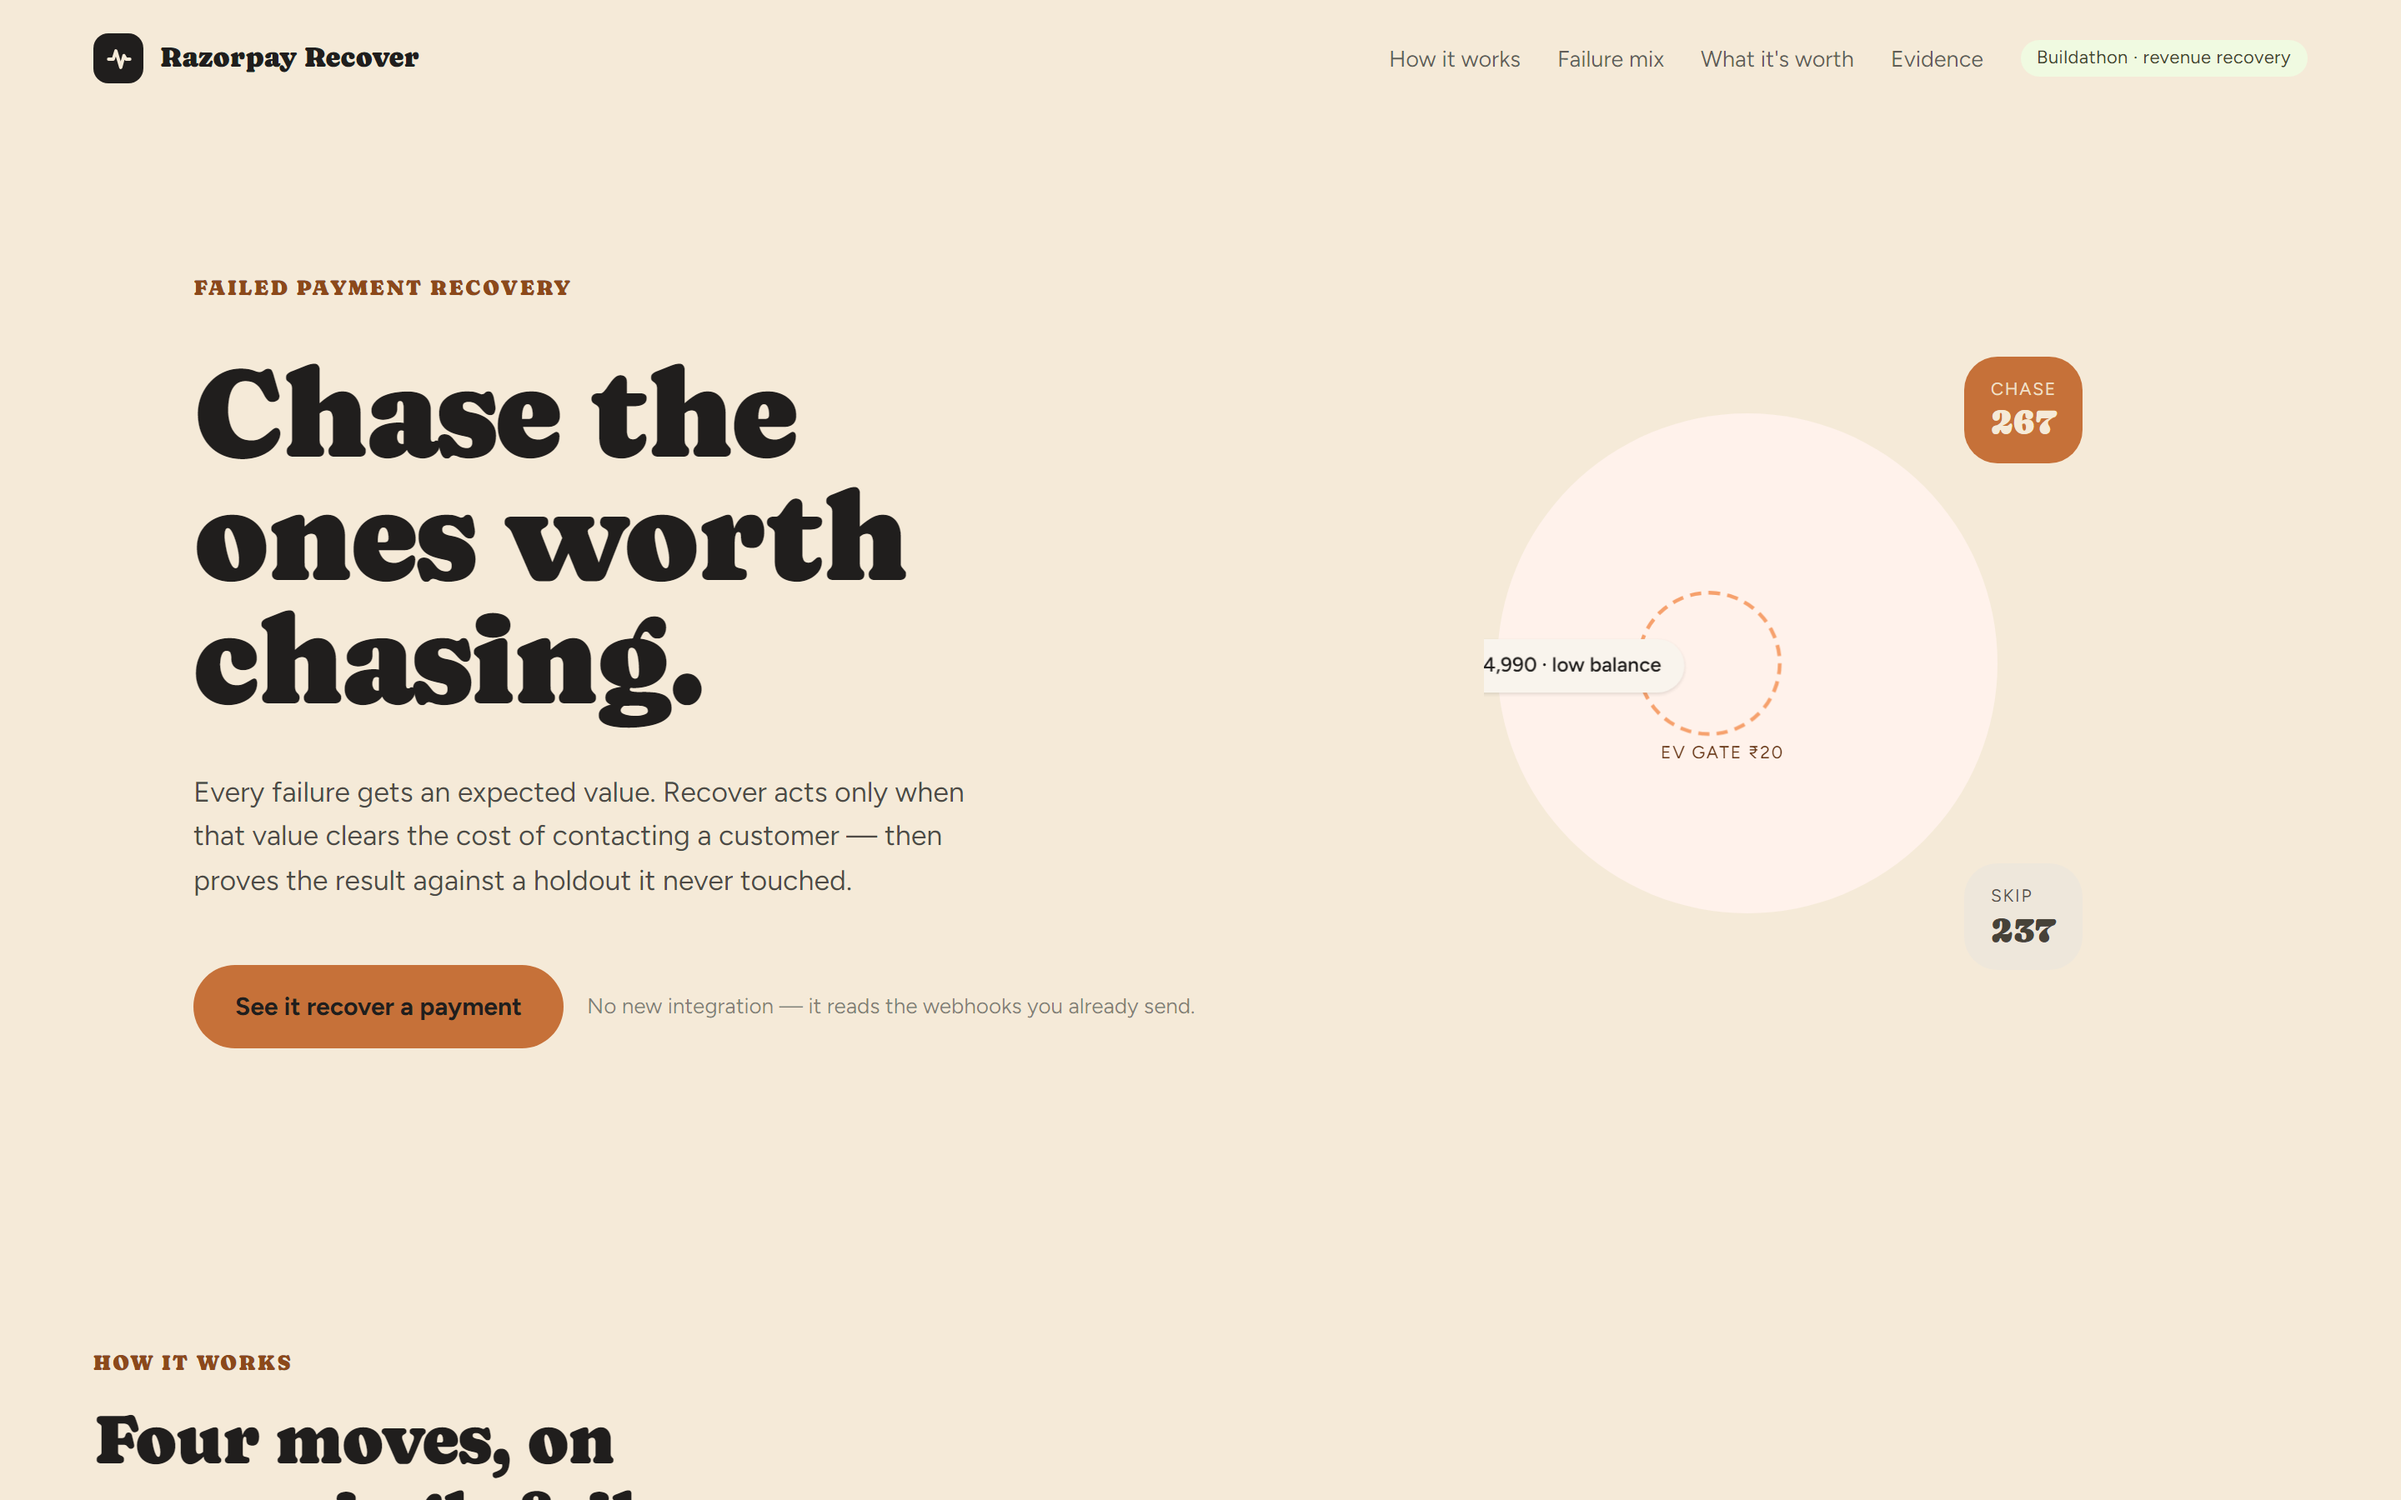
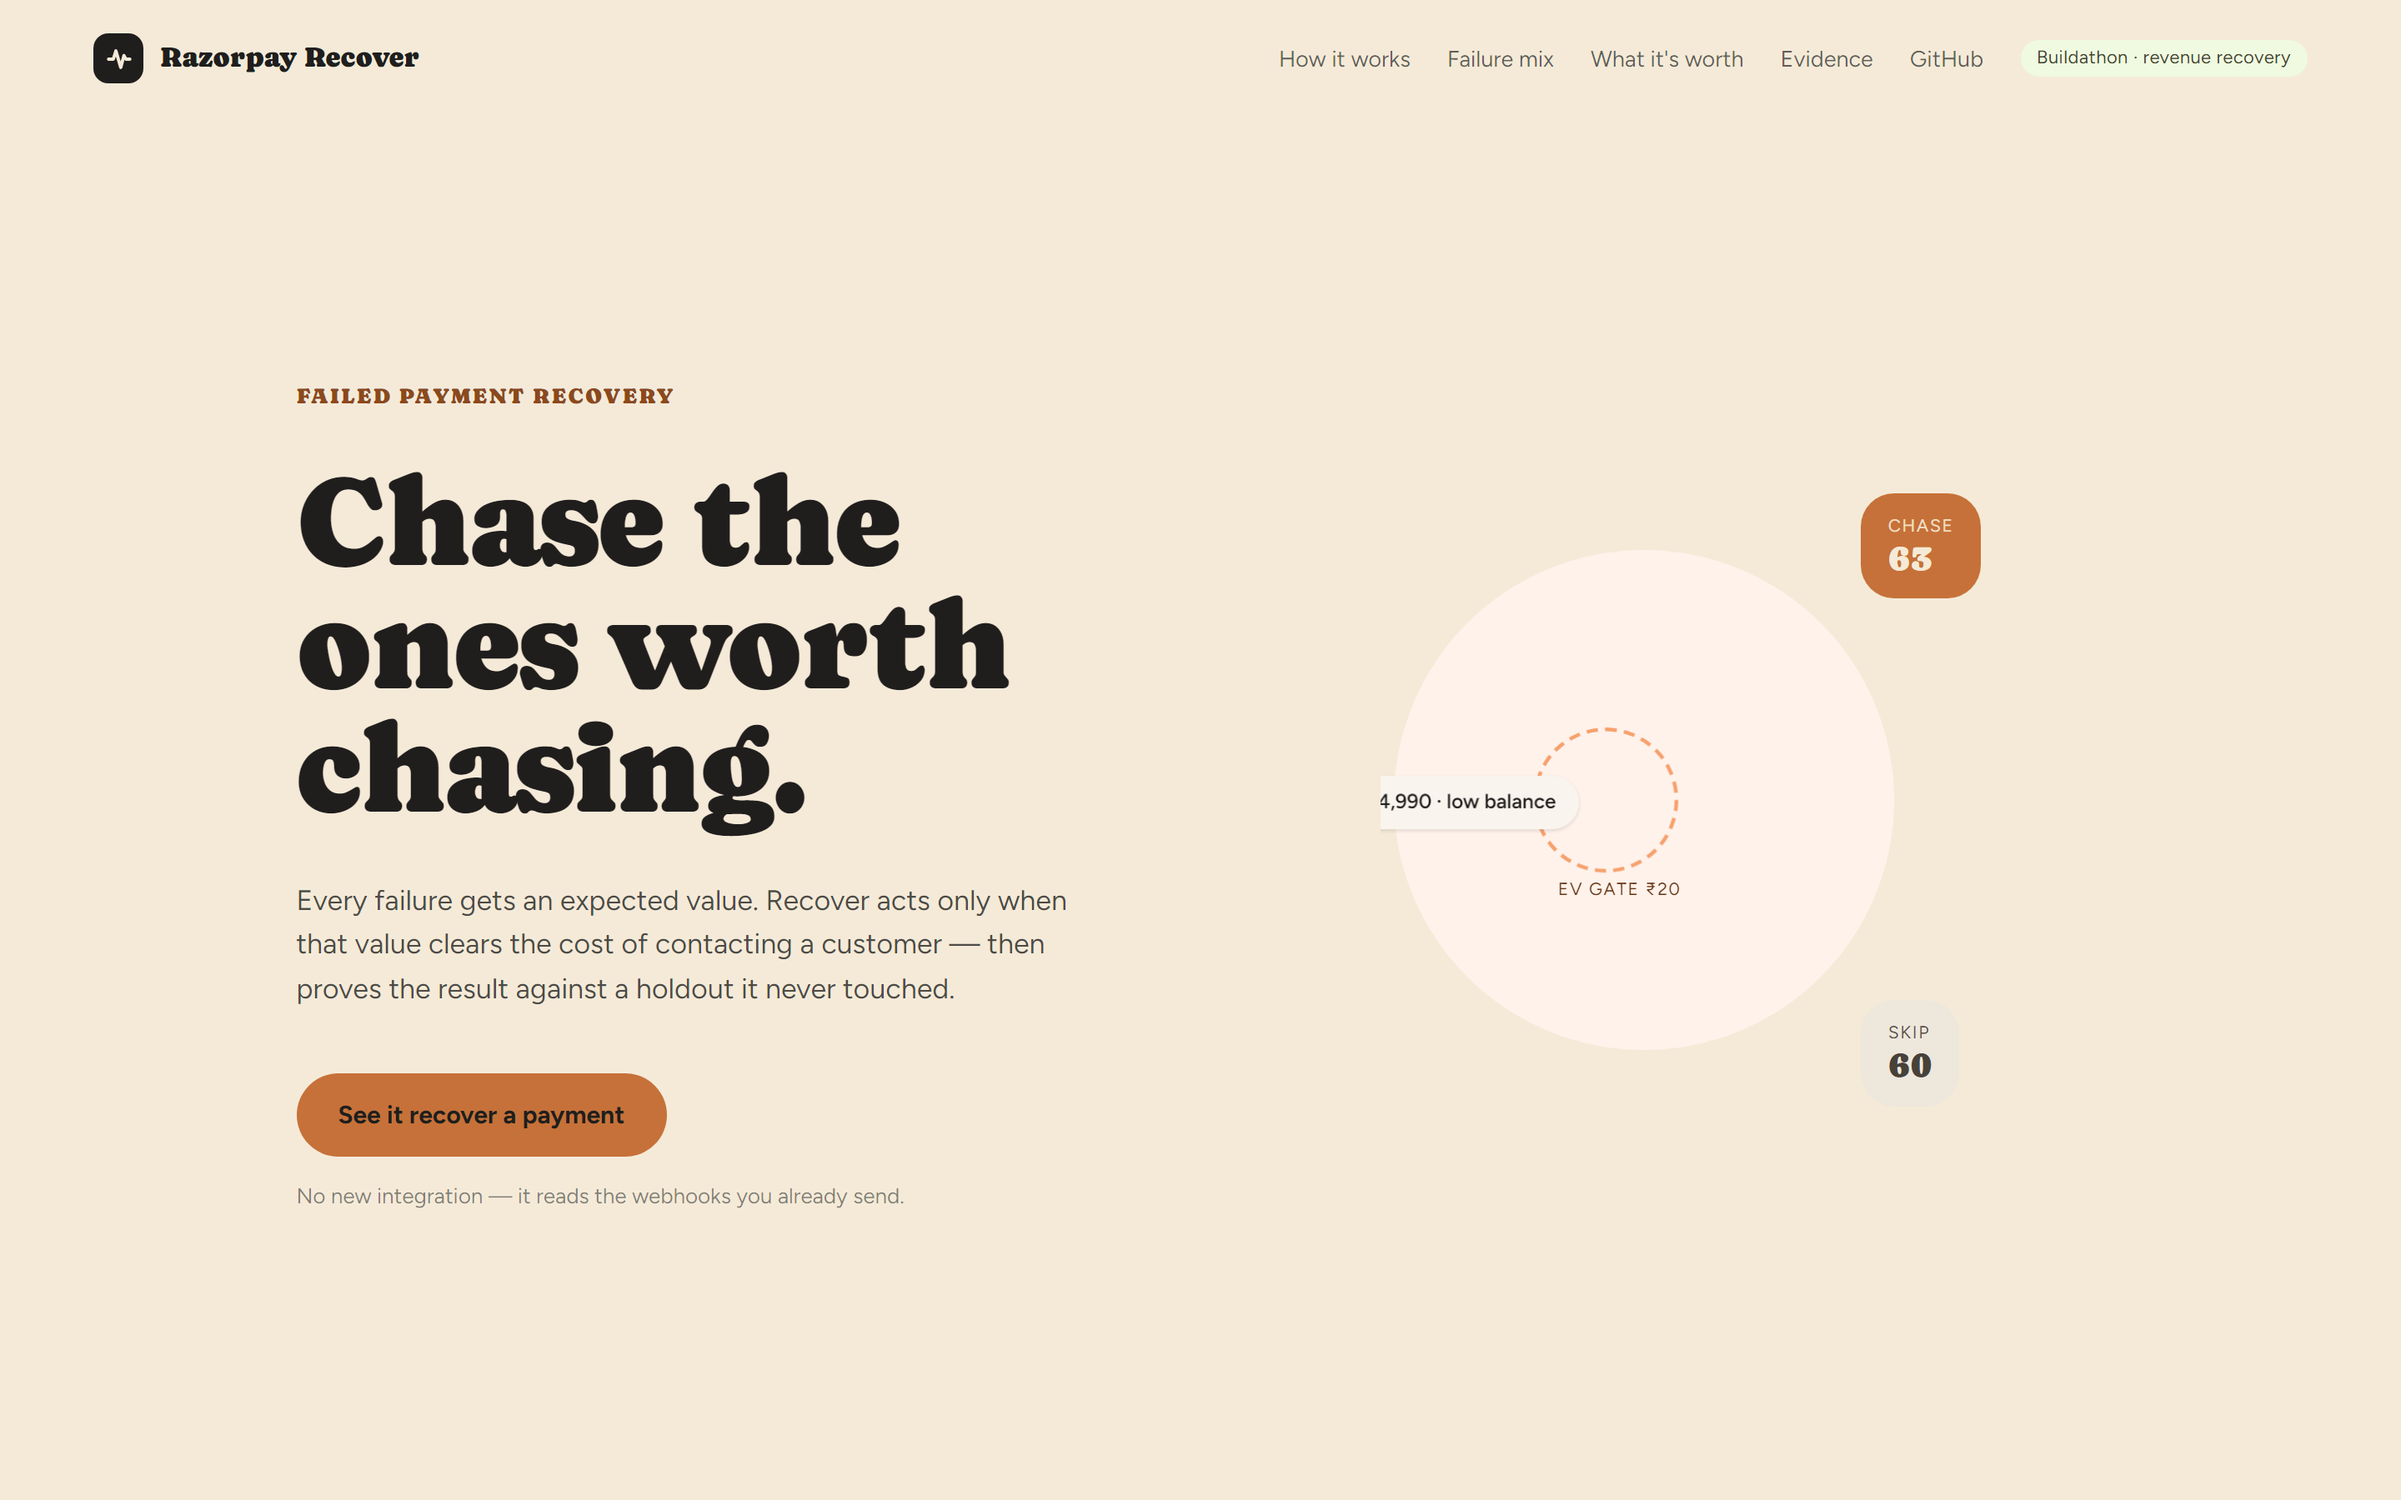
Update README with live link, fresh screenshots, and current UI
- Add the live site URL and a short deployment section covering the
  Azure/GitHub Pages pipeline and the Postgres stop/start schedule
- Mention the guided tour
- Regenerate all README screenshots from the live deployed site rather
  than a stale local capture -- also fixes the capture script to skip
  the tour (it now pre-seeds localStorage) and match the renamed
  "Promote, observe only" button
- Correct the demo-traffic description: the console now defaults to
  showing seeded data rather than opening on zeros
- Rename the last leftover "Promote to shadow" button for consistency
  with the rest of the "Observe only" rename

diff --git a/frontend/src/components/tabs/GovernanceTab.tsx b/frontend/src/components/tabs/GovernanceTab.tsx
@@ -286,7 +286,7 @@ export function GovernanceTab() {
                 ? "Active promoted model"
                 : promoting
                 ? "Promoting…"
-                : "Promote to shadow"}
+                : "Promote, observe only"}
             </button>
           </div>
         </div>

diff --git a/README.md b/README.md
@@ -1,6 +1,8 @@
 # Revenue Recovery Control Plane
 
-A shadow-first Razorpay revenue-operations prototype that detects payment failures, identifies recoverable revenue, selects policy-gated interventions, and records every decision and outcome with explicit data provenance.
+**Live: [pikachu-5.github.io/razorpay](https://pikachu-5.github.io/razorpay/)**
+
+An observe-first Razorpay revenue-operations prototype that detects payment failures, identifies recoverable revenue, selects policy-gated interventions, and records every decision and outcome with explicit data provenance. Backend runs on Azure App Service + Postgres; frontend deploys to GitHub Pages, both via GitHub Actions on every push to `main`.
 
 ![The Razorpay Recover landing page](docs/img/01-landing.png)
 
@@ -8,7 +10,10 @@ A shadow-first Razorpay revenue-operations prototype that detects payment failur
 
 The landing page states the thesis, then the body pages through how it works,
 the failure mix, what it is worth, and the evidence. **See it recover a payment**
-opens the operator console.
+opens the operator console — which opens with a short guided tour on your first
+visit, pinning a small card next to whichever KPI, panel, or control it's
+explaining rather than covering the screen. Reopen it anytime from the **?**
+icon next to the logo.
 
 | | |
 | --- | --- |
@@ -35,7 +40,8 @@ dominated by ticket size, so sorting by amount already clears that bar. The
 number that matters is the one against the value-ranked policy.
 
 Regenerate these after a UI change with `npm run screenshots` in `frontend/`
-(needs the app running and a seeded baseline).
+— against a local dev server (needs it running and a seeded baseline), or
+directly against the live install with `npm run screenshots -- <url>`.
 
 ## Where the numbers come from
 
@@ -57,12 +63,26 @@ Two kinds of figure appear, and they are never mixed:
 - Expected value is measured against the do-nothing counterfactual: actions are ranked on the recovery they *add* over the rate at which these failures resolve on their own, net of what the action costs.
 - Order-centric recovery deduplication plus Razorpay Order, Payment Link, downtime, subscription, invoice, refund, and dispute lifecycles.
 - Webhook-first state with bounded Razorpay API reconciliation for duplicate, delayed, missed, or out-of-order delivery.
-- Shadow mode by default: customer-facing actions are recorded without sending links or notifications until explicitly enabled.
+- Observe-only by default (`SHADOW_MODE=true`): customer-facing actions are recorded without sending links or notifications until explicitly armed live — from the landing page's CTA, or from the **Execution** row in the console sidebar itself, both behind a preflight confirm.
 - Segment-level (method × bank) incident detection, simulation, response budgets, and dashboard visibility.
 - Deterministic 80/20 treatment/control holdout for counterfactual recovery measurement.
 - Synthetic data isolation from operational KPIs and experiments, plus a verified decision-time feature export for later real-data training.
 - Per-action ML quarantine with heuristic fallback, model cards, gated promotion, and a responsive evidence-first React operations console.
 - An operator preflight on every consequential action: batch incident response, model promotion, and manual re-decide each show scope, execution mode, and what cannot be undone before they run.
+
+## Deployment
+
+The live install runs the backend (FastAPI + Postgres) on Azure App Service
+and Azure Database for PostgreSQL, and the frontend on GitHub Pages. Both
+deploy from [`.github/workflows/ci.yml`](.github/workflows/ci.yml) on every
+push to `main`, gated behind the backend and frontend test jobs passing
+first. Azure authentication uses OIDC federated credentials, not a stored
+secret. A second workflow, [`postgres-schedule.yml`](.github/workflows/postgres-schedule.yml),
+stops and starts the database on a cost-saving nightly schedule outside
+any period the install needs to stay reachable around the clock — mirrored
+client-side in [`maintenanceWindow.ts`](frontend/src/utils/maintenanceWindow.ts)
+so the frontend shows an honest "resting" message instead of failed requests
+while it's down.
 
 ## Start locally
 
@@ -135,11 +155,12 @@ the first thing a reviewer sees is an empty dashboard:
 .\.venv\Scripts\python scripts\seed_demo_baseline.py --days 30
 ```
 
-Seeded history is flagged `is_synthetic`, because it is invented. Operational
-KPIs and the causal experiment both exclude it by default, so a seeded install
-opens on zeros until you say otherwise — the live feed offers **Include demo
-traffic**, and the Evidence tab has the same switch. Both label the result as a
-demonstration of the measurement machinery rather than evidence of real lift.
+Seeded history is flagged `is_synthetic`. The live feed opens *including* it
+by default, exactly like the Evidence tab and the landing page's failure mix
+already do, so a seeded install never opens on a wall of zeros — flip **Show
+real payments only** any time to see just genuine Razorpay activity instead.
+Anything built from synthetic data is labelled a demonstration of the
+measurement machinery, never evidence of real lift.
 
 Then use [RUNBOOK.md](RUNBOOK.md) for the complete judge/demo flow. It includes a
 safe preflight, four failure scenarios, expected observable results, and Test
